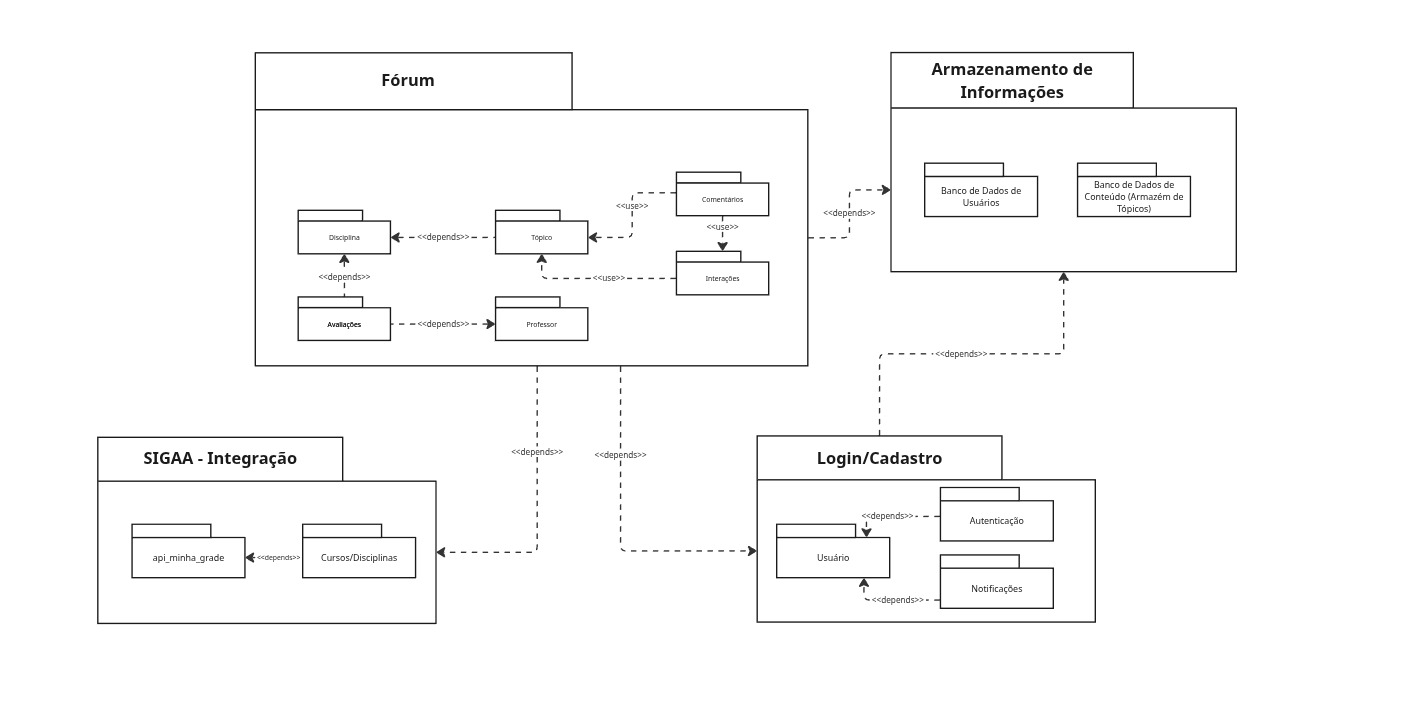
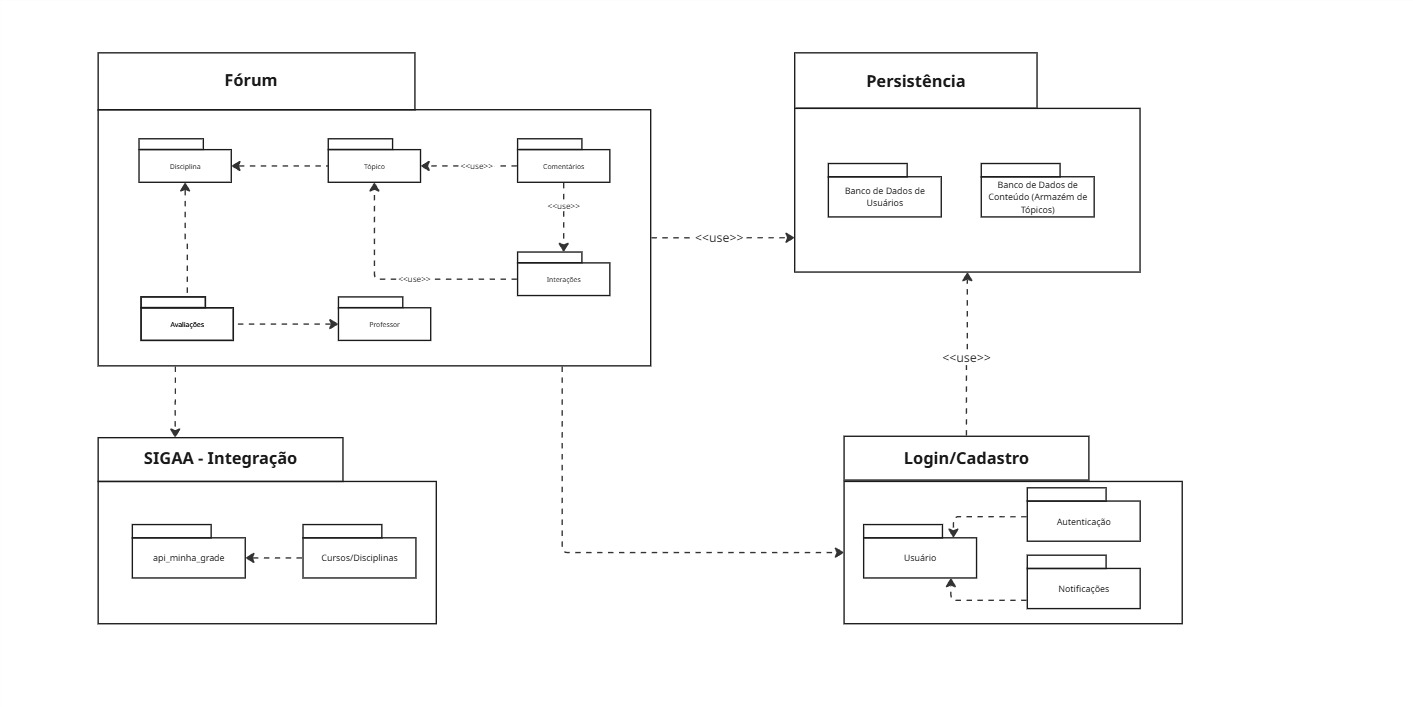
fix: corrige nomenclaturas no diagrama de pacotes

diff --git a/docs/Modelagem/2.3.2.DiagramaPacotes.md b/docs/Modelagem/2.3.2.DiagramaPacotes.md
@@ -13,7 +13,7 @@ O objetivo deste diagrama é fornecer uma visão macroscópica da arquitetura do
 | Nome                          | Função                                                                                                                                                                                                                                                                                 | Elemento                                                                         |
 | ----------------------------- | -------------------------------------------------------------------------------------------------------------------------------------------------------------------------------------------------------------------------------------------------------------------------------------- | -------------------------------------------------------------------------------- |
 | Pacote                        | Representado por uma pasta com uma aba no canto superior esquerdo, agrupa elementos logicamente relacionados (classes, componentes ou outros pacotes), definindo um namespace (espaço de nomes) e os limites do módulo.                                                                | ![Pacote](../assets/imagens/diagrama_pacotes/pacote.png)                         |
-| Relacionamento de Dependência | Representado por uma linha tracejada com uma seta aberta na ponta e o estereótipo `«depends»`. Indica que um pacote requer a funcionalidade, o código ou a compilação de outro pacote para funcionar corretamente. Uma mudança no pacote fornecedor pode impactar o pacote dependente. | ![Relacionamento de Dependência](../assets/imagens/diagrama_pacotes/depends.png) |
+| Relacionamento de Dependência | Representado por uma linha tracejada com uma seta aberta na ponta . Indica que um pacote requer a funcionalidade, o código ou a compilação de outro pacote para funcionar corretamente. Uma mudança no pacote fornecedor pode impactar o pacote dependente. | ![Relacionamento de Dependência](../assets/imagens/diagrama_pacotes/depends.png) |
 | Relacionamento de Uso         | Representado por uma linha tracejada com o estereótipo `«use»`. Indica uma dependência de utilização, onde elementos internos de um pacote interagem diretamente com os elementos de outro para executar suas rotinas.                                                                 | ![Relacionamento de Uso](../assets/imagens/diagrama_pacotes/use.png)             |
 
 **Tabela 1:** Elementos do diagrama de pacotes
@@ -40,7 +40,7 @@ Abaixo estão descritos os principais pacotes do sistema e suas responsabilidade
 | **Responsabilidade**      | Módulo central contendo as regras de negócio de interação, publicação e acadêmicas.                                                                                                          |
 | **Pacotes Internos**      | `Disciplina`, `Tópico`, `Avaliações`, `Professor`, `Comentários`, `Interações`.                                                                                                              |
 | **Dependências Internas** | - `Tópico` depende de `Disciplina` <br> - `Professor` depende de `Avaliações` <br> - `Comentários` utiliza (`«use»`) `Tópico` <br> - `Interações` utiliza (`«use»`) `Tópico` e `Comentários` |
-| **Dependências Externas** | Depende de `SIGAA - Integração`, `Login/Cadastro` e `Armazenamento de Informações`.                                                                                                          |
+| **Dependências Externas** | Depende de `SIGAA - Integração`, `Login/Cadastro` e usa `Persistência`.                                                                                                          |
 
 ---
 
@@ -52,7 +52,7 @@ Abaixo estão descritos os principais pacotes do sistema e suas responsabilidade
 | **Responsabilidade**      | Gerenciar o acesso seguro, a criação de contas e o perfil dos estudantes na plataforma.       |
 | **Pacotes Internos**      | `Usuário`, `Autenticação`, `Notificações`.                                                    |
 | **Dependências Internas** | - `Autenticação` depende de `Usuário` <br> - `Notificações` depende de `Usuário`              |
-| **Dependências Externas** | Depende diretamente de `Armazenamento de Informações` para persistir e consultar credenciais. |
+| **Dependências Externas** | Usa diretamente de `Persistência` para persistir e consultar credenciais. |
 
 ---
 
@@ -68,7 +68,7 @@ Abaixo estão descritos os principais pacotes do sistema e suas responsabilidade
 
 ---
 
-## PC04 — Armazenamento de Informações (Persistência)
+## PC04 — Persistência
 
 | Campo                     | Descrição                                                                                                                |
 | ------------------------- | ------------------------------------------------------------------------------------------------------------------------ |
@@ -92,6 +92,7 @@ Conforme exigido, a tabela abaixo detalha a participação dos membros neste art
 | João Gabriel | Criação e Validação do diagrama de pacotes. |
 | Gabriel Maciel | Criação e Validação do diagrama de pacotes. |
 | Felipe | Criação e Validação do diagrama de pacotes. |
+| Marcos Bezerra | Validação do diagrama de pacotes. |
 
 ## Histórico de versão
 
